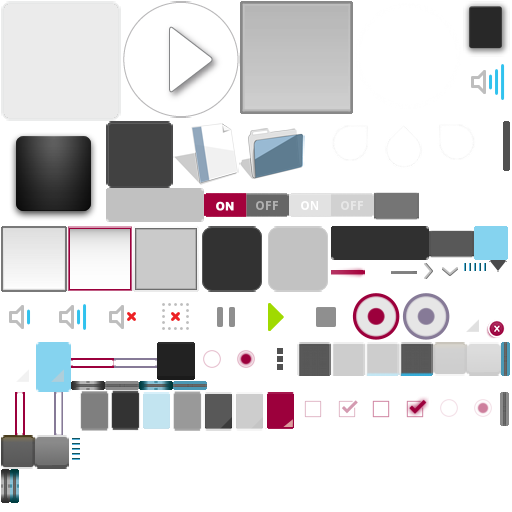
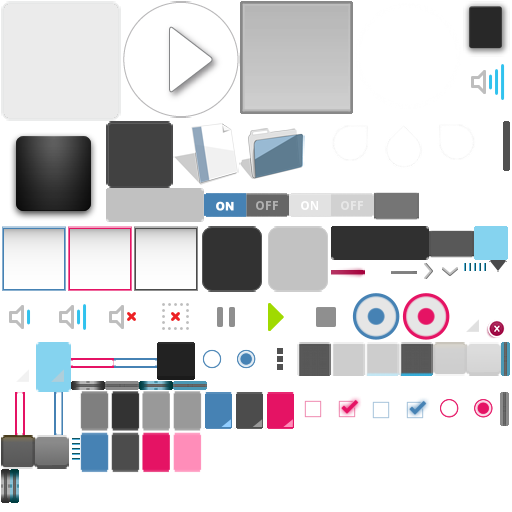
change kivy theme <3 + make the spinners focusable !

diff --git a/Module/tools_kivy.py b/Module/tools_kivy.py
@@ -18,6 +18,11 @@ from kivy.uix.spinner import Spinner
 from kivy.uix.popup import Popup
 from kivy.uix.floatlayout import FloatLayout
 from kivy.uix.behaviors import FocusBehavior
+from kivy.uix.dropdown import DropDown
+from kivy.properties import ObjectProperty
+
+
+from functools import partial
 
 
 ########################
@@ -28,12 +33,11 @@ from kivy.uix.behaviors import FocusBehavior
 ### Kivy light theme ###
 
 size_popup = (dp(400), dp(400))
-highlight_text_color = (156 / 255, 0, 60 / 255, 0.5)
 background_color = (230 / 255, 230 / 255, 230 / 255, 1)
 color_label = (0, 0, 0, 1)
-gray_color = (134 / 255, 122 / 255, 151 / 255, 1)
-pink_color = (156 / 255, 0, 60 / 255, 1)
-
+blue_color = (70 / 255, 130 / 255, 180 / 255, 1)
+pink_color = (229 / 255, 19 / 255, 100 / 255, 1)
+highlight_text_color = pink_color
 
 ### Messages in popups ###
 
@@ -163,26 +167,43 @@ class ImprovedPopup(Popup):
 #######################
 
 
+class FocusableSpinner(FocusBehavior, Spinner):
+    def __init__(self, **kwargs):
+        super().__init__(**kwargs)
+
+    def on_is_open(self, instance, value):
+        if self.is_open:
+            self._dropdown.clear_widgets()
+            for value in self.values:
+                btn = FocusableButton(text=value, size_hint_y=None, height=44)
+                btn.on_press=partial(self.on_button_press, btn)
+                self._dropdown.add_widget(btn)
+        return super().on_is_open(instance, value)
+
+    def on_button_press(self, button):
+        self._dropdown.select(button.text)
+        self.focus = True
+
+    def keyboard_on_key_down(self, window, keycode, text, modifiers):
+        key = keycode[-1]
+        if key in ("spacebar", "enter"):
+            self.is_open = not self.is_open
+            if self.is_open:
+                self._dropdown.children[0].children[-1].focus = True
+
+        return super(FocusableSpinner, self).keyboard_on_key_down(window, keycode, text, modifiers)
+
 class FocusableButton(FocusBehavior, Button):
     def __init__(self, **kwargs):
         super().__init__(**kwargs)
-        self.background_color = (
-            2 * gray_color[0], 2 * gray_color[1], 2 * gray_color[2], gray_color[3])
         # Window.bind(mouse_pos=self.on_mouse_pos)
         # self.children.append(ToolTip(text="hello", opacity=0)) #METTRE LA CLASSE TOOLTIP DANS EXTENDED STYLE
-
-    def on_focus(self, instance, value, *args):
-        if value:
-            self.background_color = (
-            2 * pink_color[0], 2 * pink_color[1], 2 * pink_color[2], pink_color[3])
-        else:
-            self.background_color = (
-            2 * gray_color[0], 2 * gray_color[1], 2 * gray_color[2], gray_color[3])
 
     def keyboard_on_key_down(self, window, keycode, text, modifiers):
         key = keycode[-1]
         if key in ("spacebar", "enter"):
             self.on_press()
+
         return super(FocusableButton, self).keyboard_on_key_down(window, keycode, text, modifiers)
     
     # def on_mouse_pos(self, *args):
@@ -205,15 +226,6 @@ class FocusableButton(FocusBehavior, Button):
 class FocusableCheckBox(FocusBehavior, CheckBox):
     def __init__(self, **kwargs):
         super().__init__(**kwargs)
-        # METTRE ICI LES BONNES COULEURS
-
-    def on_focus(self, instance, value, *args):
-        if value:
-            print("focus")
-            # METTRE ICI LES BONNES COULEURS
-        else:
-            print("not focus")
-            # METTRE ICI LES BONNES COULEURS
 
     def keyboard_on_key_down(self, window, keycode, text, modifiers):
         key = keycode[-1]

diff --git a/main.py b/main.py
@@ -728,7 +728,7 @@ class WindowManager(ScreenManager):
         super().__init__(**kwargs)
         self.highlight_text_color = highlight_text_color
         self.button_gray_color = (
-            2 * gray_color[0], 2 * gray_color[1], 2 * gray_color[2], gray_color[3])
+            2 * blue_color[0], 2 * blue_color[1], 2 * blue_color[2], blue_color[3])
         self.button_pink_color = (
             2 * pink_color[0], 2 * pink_color[1], 2 * pink_color[2], pink_color[3])
         self.color_label = color_label
